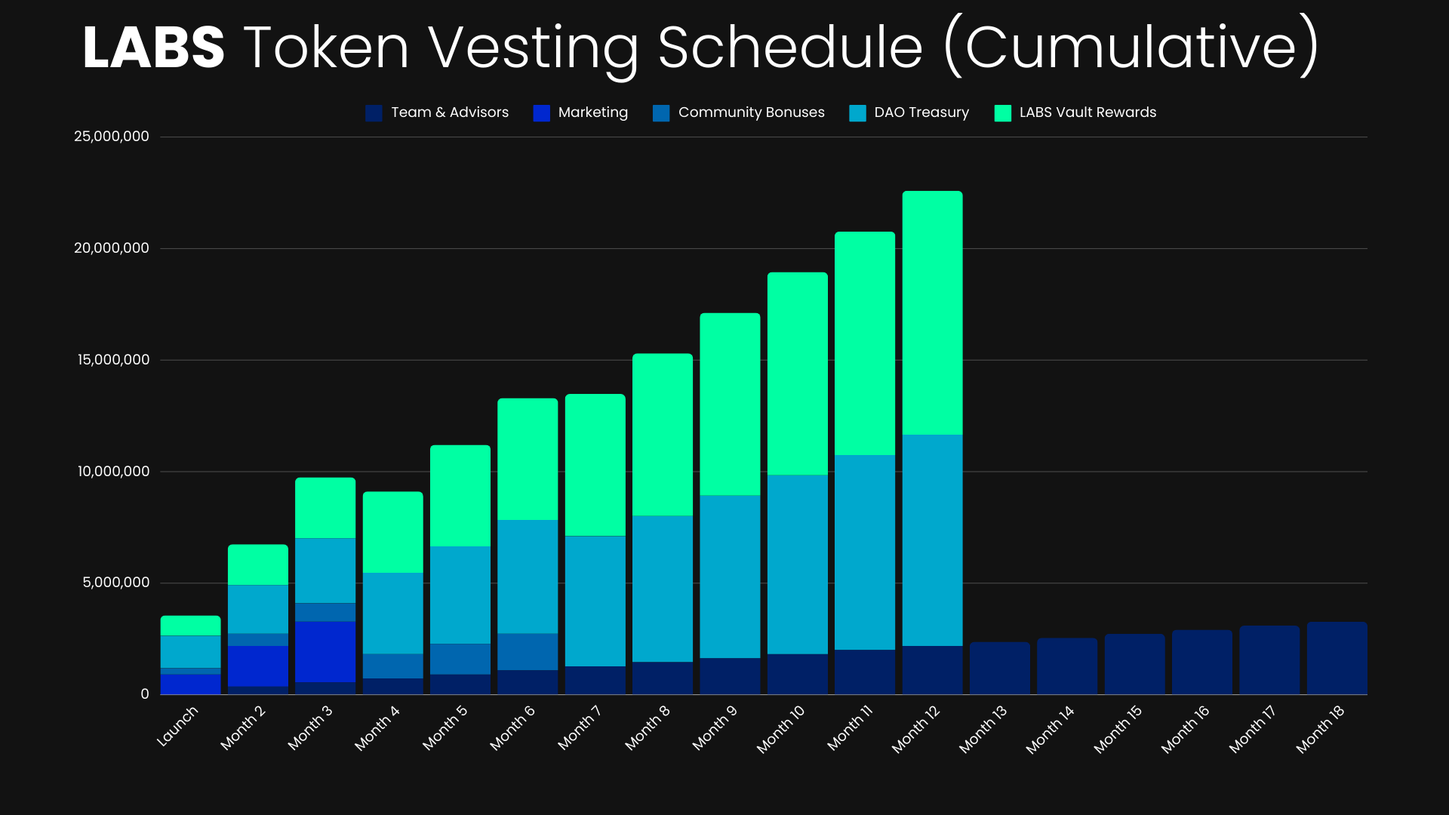
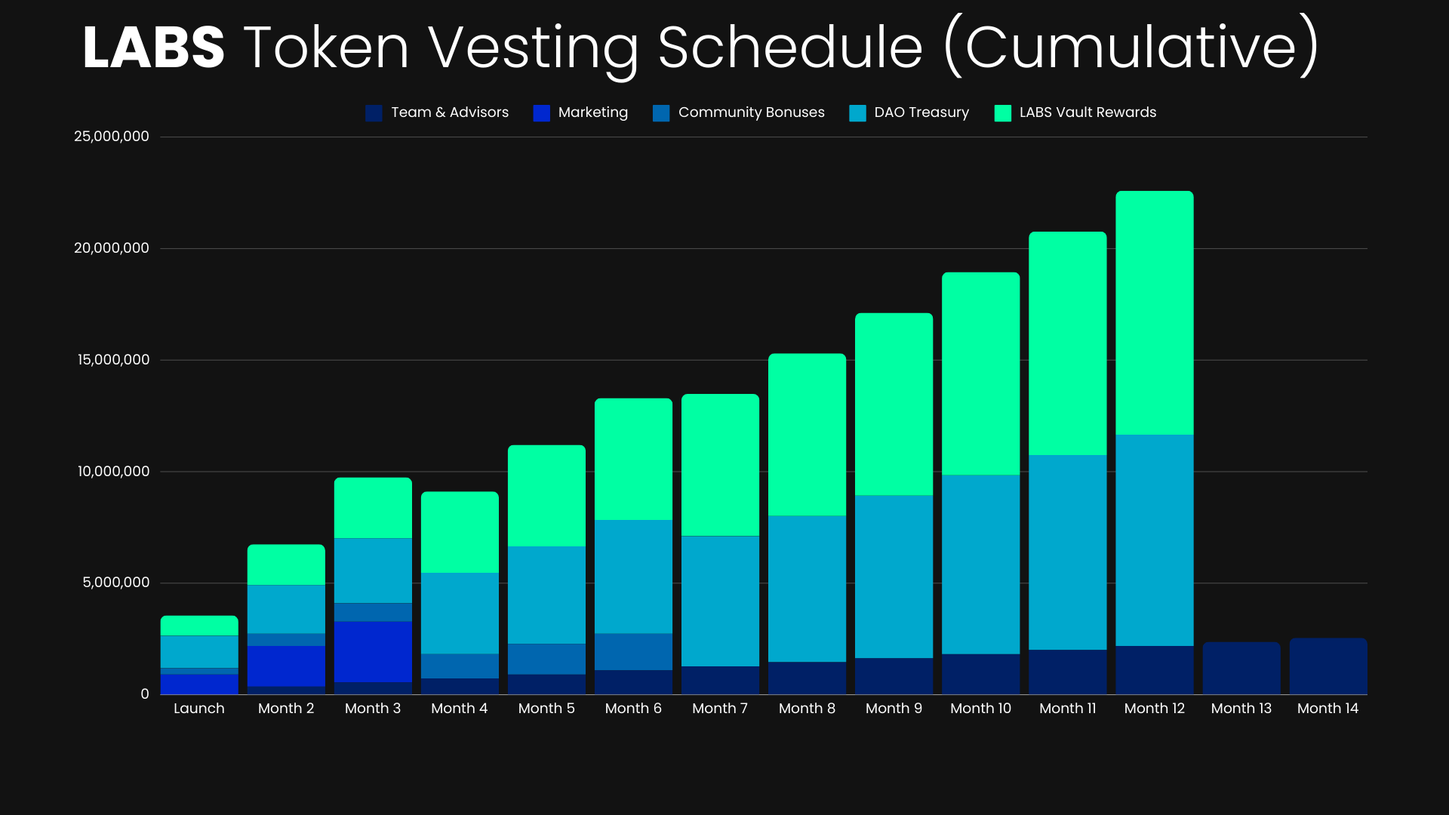
v0.1.1-a

Changed region(s): [[0.125, 0.2139, 0.9688, 0.9167], [0.75, 0.8861, 0.7812, 0.9167], [0.0938, 0.8861, 0.125, 0.9167]]

diff --git a/docs/.vitepress/dist/index.html b/docs/.vitepress/dist/index.html
@@ -6,19 +6,19 @@
     <title>Epicentral Labs</title>
     <meta name="description" content="Accelerate Project Incentives">
     <meta name="generator" content="VitePress v1.2.3">
-    <link rel="preload stylesheet" href="/assets/style.DgaH4lqg.css" as="style">
+    <link rel="preload stylesheet" href="/assets/style.BakIDI2z.css" as="style">
     
-    <script type="module" src="/assets/app.BaJRWoTe.js"></script>
+    <script type="module" src="/assets/app.DK_gGPpi.js"></script>
     <link rel="preload" href="/assets/inter-roman-latin.Di8DUHzh.woff2" as="font" type="font/woff2" crossorigin="">
-    <link rel="modulepreload" href="/assets/chunks/framework.x1LWUZpO.js">
-    <link rel="modulepreload" href="/assets/chunks/theme.AdrQEDLV.js">
-    <link rel="modulepreload" href="/assets/index.md.DtxrTbIZ.lean.js">
+    <link rel="modulepreload" href="/assets/chunks/framework.Dea1KWLi.js">
+    <link rel="modulepreload" href="/assets/chunks/theme.By3wyaKg.js">
+    <link rel="modulepreload" href="/assets/index.md.DTVQpEPl.lean.js">
     <script id="check-dark-mode">(()=>{const e=localStorage.getItem("vitepress-theme-appearance")||"auto",a=window.matchMedia("(prefers-color-scheme: dark)").matches;(!e||e==="auto"?a:e==="dark")&&document.documentElement.classList.add("dark")})();</script>
     <script id="check-mac-os">document.documentElement.classList.toggle("mac",/Mac|iPhone|iPod|iPad/i.test(navigator.platform));</script>
   </head>
   <body>
-    <div id="app"><div class="Layout" data-v-a9a9e638><!--[--><!--]--><!--[--><span tabindex="-1" data-v-c3508ec8></span><a href="#VPContent" class="VPSkipLink visually-hidden" data-v-c3508ec8> Skip to content </a><!--]--><!----><header class="VPNav" data-v-a9a9e638 data-v-f1e365da><div class="VPNavBar home top" data-v-f1e365da data-v-40788ea0><div class="wrapper" data-v-40788ea0><div class="container" data-v-40788ea0><div class="title" data-v-40788ea0><div class="VPNavBarTitle" data-v-40788ea0 data-v-28a961f9><a class="title" href="/" data-v-28a961f9><!--[--><!--]--><!----><span data-v-28a961f9>Epicentral Labs</span><!--[--><!--]--></a></div></div><div class="content" data-v-40788ea0><div class="content-body" data-v-40788ea0><!--[--><!--]--><div class="VPNavBarSearch search" data-v-40788ea0><!----></div><nav aria-labelledby="main-nav-aria-label" class="VPNavBarMenu menu" data-v-40788ea0 data-v-492ea56d><span id="main-nav-aria-label" class="visually-hidden" data-v-492ea56d>Main Navigation</span><!--[--><!--[--><a class="VPLink link VPNavBarMenuLink active" href="/" tabindex="0" data-v-492ea56d data-v-ed5ac1f6><!--[--><span data-v-ed5ac1f6>Home</span><!--]--></a><!--]--><!--[--><div class="VPFlyout VPNavBarMenuGroup" data-v-492ea56d data-v-e5380155><button type="button" class="button" aria-haspopup="true" aria-expanded="false" data-v-e5380155><span class="text" data-v-e5380155><!----><span data-v-e5380155>v0.1.0</span><span class="vpi-chevron-down text-icon" data-v-e5380155></span></span></button><div class="menu" data-v-e5380155><div class="VPMenu" data-v-e5380155 data-v-97491713><div class="items" data-v-97491713><!--[--><!--[--><div class="VPMenuLink" data-v-97491713 data-v-8b74d055><a class="VPLink link" href="/lab-updates/docs-changelog.html" data-v-8b74d055><!--[-->Docs Changlogs<!--]--></a></div><!--]--><!--]--></div><!--[--><!--]--></div></div></div><!--]--><!--]--></nav><!----><div class="VPNavBarAppearance appearance" data-v-40788ea0 data-v-ead91a81><button class="VPSwitch VPSwitchAppearance" type="button" role="switch" title="Switch to dark theme" aria-checked="false" data-v-ead91a81 data-v-b79b56d4 data-v-4a1c76db><span class="check" data-v-4a1c76db><span class="icon" data-v-4a1c76db><!--[--><span class="vpi-sun sun" data-v-b79b56d4></span><span class="vpi-moon moon" data-v-b79b56d4></span><!--]--></span></span></button></div><div class="VPSocialLinks VPNavBarSocialLinks social-links" data-v-40788ea0 data-v-164c457f data-v-ee7a9424><!--[--><a class="VPSocialLink no-icon" href="https://x.com/VaultiFi" aria-label="twitter" target="_blank" rel="noopener" data-v-ee7a9424 data-v-717b8b75><span class="vpi-social-twitter" /></a><a class="VPSocialLink no-icon" href="https://github.com/vuejs/vitepress" aria-label="github" target="_blank" rel="noopener" data-v-ee7a9424 data-v-717b8b75><span class="vpi-social-github" /></a><!--]--></div><div class="VPFlyout VPNavBarExtra extra" data-v-40788ea0 data-v-9b536d0b data-v-e5380155><button type="button" class="button" aria-haspopup="true" aria-expanded="false" aria-label="extra navigation" data-v-e5380155><span class="vpi-more-horizontal icon" data-v-e5380155></span></button><div class="menu" data-v-e5380155><div class="VPMenu" data-v-e5380155 data-v-97491713><!----><!--[--><!--[--><!----><div class="group" data-v-9b536d0b><div class="item appearance" data-v-9b536d0b><p class="label" data-v-9b536d0b>Appearance</p><div class="appearance-action" data-v-9b536d0b><button class="VPSwitch VPSwitchAppearance" type="button" role="switch" title="Switch to dark theme" aria-checked="false" data-v-9b536d0b data-v-b79b56d4 data-v-4a1c76db><span class="check" data-v-4a1c76db><span class="icon" data-v-4a1c76db><!--[--><span class="vpi-sun sun" data-v-b79b56d4></span><span class="vpi-moon moon" data-v-b79b56d4></span><!--]--></span></span></button></div></div></div><div class="group" data-v-9b536d0b><div class="item social-links" data-v-9b536d0b><div class="VPSocialLinks social-links-list" data-v-9b536d0b data-v-ee7a9424><!--[--><a class="VPSocialLink no-icon" href="https://x.com/VaultiFi" aria-label="twitter" target="_blank" rel="noopener" data-v-ee7a9424 data-v-717b8b75><span class="vpi-social-twitter" /></a><a class="VPSocialLink no-icon" href="https://github.com/vuejs/vitepress" aria-label="github" target="_blank" rel="noopener" data-v-ee7a9424 data-v-717b8b75><span class="vpi-social-github" /></a><!--]--></div></div></div><!--]--><!--]--></div></div></div><!--[--><!--]--><button type="button" class="VPNavBarHamburger hamburger" aria-label="mobile navigation" aria-expanded="false" aria-controls="VPNavScreen" data-v-40788ea0 data-v-5dea55bf><span class="container" data-v-5dea55bf><span class="top" data-v-5dea55bf></span><span class="middle" data-v-5dea55bf></span><span class="bottom" data-v-5dea55bf></span></span></button></div></div></div></div><div class="divider" data-v-40788ea0><div class="divider-line" data-v-40788ea0></div></div></div><!----></header><!----><!----><div class="VPContent is-home" id="VPContent" data-v-a9a9e638 data-v-91765379><div class="VPHome" data-v-91765379 data-v-cbb6ec48><!--[--><!--]--><div class="VPHero VPHomeHero" data-v-cbb6ec48 data-v-955009fc><div class="container" data-v-955009fc><div class="main" data-v-955009fc><!--[--><!--]--><!--[--><h1 class="name" data-v-955009fc><span class="clip" data-v-955009fc>Epicentral Labs</span></h1><p class="text" data-v-955009fc>Accelerate Project Incentives</p><p class="tagline" data-v-955009fc>Building interactive dApps that innovative DeFi solutions.</p><!--]--><!--[--><!--]--><div class="actions" data-v-955009fc><!--[--><div class="action" data-v-955009fc><a class="VPButton medium brand" href="/introduction/about-us.html" data-v-955009fc data-v-14206e74>Open Docs</a></div><div class="action" data-v-955009fc><a class="VPButton medium alt" href="https://x.com/EpicentralLabs" target="_blank" rel="noreferrer" data-v-955009fc data-v-14206e74>Follow us on X ==&gt;</a></div><!--]--></div><!--[--><!--]--></div><!----></div></div><!--[--><!--]--><!--[--><!--]--><!----><!--[--><!--]--><div class="vp-doc container" style="" data-v-cbb6ec48 data-v-7a48a447><!--[--><div style="position:relative;" data-v-cbb6ec48><div></div></div><!--]--></div></div></div><!----><!--[--><!--]--></div></div>
-    <script>window.__VP_HASH_MAP__=JSON.parse("{\"vault-program-docs_vault-fees.md\":\"AbgpQhRc\",\"index.md\":\"DtxrTbIZ\",\"vault-program-docs_introduction.md\":\"CAqOdDUd\",\"lab-updates_understanding-lab-updates.md\":\"Cvlc6vMN\",\"lab-updates_docs-changelog.md\":\"CVKFCaTV\",\"terminology.md\":\"ChU7a9Tw\",\"lab-updates_website-changelog.md\":\"D99hxknm\",\"introduction_about-us.md\":\"CQ6J9GPH\",\"introduction_labstoken.md\":\"AxrxcGDo\",\"vault-program-docs_vault-faqs.md\":\"9We8Ba0N\",\"lab-updates_vault-program-changelog.md\":\"nQJ1fbPR\",\"vault-program-docs_understanding-vaults.md\":\"CpjgqX4i\"}");window.__VP_SITE_DATA__=JSON.parse("{\"lang\":\"en-US\",\"dir\":\"ltr\",\"title\":\"Epicentral Labs\",\"description\":\"Accelerate Project Incentives\",\"base\":\"/\",\"head\":[],\"router\":{\"prefetchLinks\":true},\"appearance\":true,\"themeConfig\":{\"nav\":[{\"text\":\"Home\",\"link\":\"/\"},{\"text\":\"v0.1.0\",\"items\":[{\"text\":\"Docs Changlogs\",\"link\":\"/lab-updates/docs-changelog\"}]}],\"sidebar\":[{\"text\":\"Introduction\",\"items\":[{\"text\":\"About Us\",\"link\":\"/introduction/about-us\"},{\"text\":\"Terminology\",\"link\":\"/terminology\"},{\"text\":\"LABS Token\",\"link\":\"/introduction/labstoken\"}]},{\"text\":\"Vault-Programs\",\"items\":[{\"text\":\"Introduction\",\"link\":\"/vault-program-docs/introduction\"},{\"text\":\"Understanding Vaults\",\"link\":\"/vault-program-docs/understanding-vaults\"},{\"text\":\"Fees\",\"link\":\"/vault-program-docs/vault-fees\"},{\"text\":\"FAQs\",\"link\":\"/vault-program-docs/vault-faqs\"}]},{\"text\":\"Links\",\"items\":[{\"text\":\"Epicentral Labs Website\",\"link\":\"https://docs.epicentrallabs.com/\"},{\"text\":\"X (Twitter)\",\"link\":\"https://x.com/EpicentralLabs\"},{\"text\":\"GitHub\",\"link\":\"https://github.com/EpicentralLabs\"}]},{\"text\":\"Lab Updates\",\"items\":[{\"text\":\"Understanding Lab Updates\",\"link\":\"/lab-updates/understanding-lab-updates.md\"},{\"text\":\"Changelog [Docs]\",\"link\":\"/lab-updates/docs-changelog\"},{\"text\":\"Changelog [Website]\",\"link\":\"/lab-updates/website-changelog\"},{\"text\":\"Changelog [Vault-Programs]\",\"link\":\"/lab-updates/vault-program-changelog\"}]}],\"socialLinks\":[{\"icon\":\"twitter\",\"link\":\"https://x.com/VaultiFi\"},{\"icon\":\"github\",\"link\":\"https://github.com/vuejs/vitepress\"}]},\"locales\":{},\"scrollOffset\":134,\"cleanUrls\":false}");</script>
+    <div id="app"><div class="Layout" data-v-a9a9e638><!--[--><!--]--><!--[--><span tabindex="-1" data-v-c3508ec8></span><a href="#VPContent" class="VPSkipLink visually-hidden" data-v-c3508ec8> Skip to content </a><!--]--><!----><header class="VPNav" data-v-a9a9e638 data-v-f1e365da><div class="VPNavBar home top" data-v-f1e365da data-v-40788ea0><div class="wrapper" data-v-40788ea0><div class="container" data-v-40788ea0><div class="title" data-v-40788ea0><div class="VPNavBarTitle" data-v-40788ea0 data-v-28a961f9><a class="title" href="/" data-v-28a961f9><!--[--><!--]--><!----><span data-v-28a961f9>Epicentral Labs</span><!--[--><!--]--></a></div></div><div class="content" data-v-40788ea0><div class="content-body" data-v-40788ea0><!--[--><!--]--><div class="VPNavBarSearch search" data-v-40788ea0><!----></div><nav aria-labelledby="main-nav-aria-label" class="VPNavBarMenu menu" data-v-40788ea0 data-v-492ea56d><span id="main-nav-aria-label" class="visually-hidden" data-v-492ea56d>Main Navigation</span><!--[--><!--[--><a class="VPLink link VPNavBarMenuLink active" href="/" tabindex="0" data-v-492ea56d data-v-ed5ac1f6><!--[--><span data-v-ed5ac1f6>Home</span><!--]--></a><!--]--><!--[--><div class="VPFlyout VPNavBarMenuGroup" data-v-492ea56d data-v-e5380155><button type="button" class="button" aria-haspopup="true" aria-expanded="false" data-v-e5380155><span class="text" data-v-e5380155><!----><span data-v-e5380155>v0.1.0</span><span class="vpi-chevron-down text-icon" data-v-e5380155></span></span></button><div class="menu" data-v-e5380155><div class="VPMenu" data-v-e5380155 data-v-97491713><div class="items" data-v-97491713><!--[--><!--[--><div class="VPMenuLink" data-v-97491713 data-v-8b74d055><a class="VPLink link" href="/lab-updates/docs-changelog.html" data-v-8b74d055><!--[-->Docs Changlogs<!--]--></a></div><!--]--><!--]--></div><!--[--><!--]--></div></div></div><!--]--><!--]--></nav><!----><div class="VPNavBarAppearance appearance" data-v-40788ea0 data-v-ead91a81><button class="VPSwitch VPSwitchAppearance" type="button" role="switch" title="Switch to dark theme" aria-checked="false" data-v-ead91a81 data-v-b79b56d4 data-v-4a1c76db><span class="check" data-v-4a1c76db><span class="icon" data-v-4a1c76db><!--[--><span class="vpi-sun sun" data-v-b79b56d4></span><span class="vpi-moon moon" data-v-b79b56d4></span><!--]--></span></span></button></div><div class="VPSocialLinks VPNavBarSocialLinks social-links" data-v-40788ea0 data-v-164c457f data-v-ee7a9424><!--[--><a class="VPSocialLink no-icon" href="https://x.com/VaultiFi" aria-label="twitter" target="_blank" rel="noopener" data-v-ee7a9424 data-v-717b8b75><span class="vpi-social-twitter" /></a><a class="VPSocialLink no-icon" href="https://github.com/vuejs/vitepress" aria-label="github" target="_blank" rel="noopener" data-v-ee7a9424 data-v-717b8b75><span class="vpi-social-github" /></a><!--]--></div><div class="VPFlyout VPNavBarExtra extra" data-v-40788ea0 data-v-9b536d0b data-v-e5380155><button type="button" class="button" aria-haspopup="true" aria-expanded="false" aria-label="extra navigation" data-v-e5380155><span class="vpi-more-horizontal icon" data-v-e5380155></span></button><div class="menu" data-v-e5380155><div class="VPMenu" data-v-e5380155 data-v-97491713><!----><!--[--><!--[--><!----><div class="group" data-v-9b536d0b><div class="item appearance" data-v-9b536d0b><p class="label" data-v-9b536d0b>Appearance</p><div class="appearance-action" data-v-9b536d0b><button class="VPSwitch VPSwitchAppearance" type="button" role="switch" title="Switch to dark theme" aria-checked="false" data-v-9b536d0b data-v-b79b56d4 data-v-4a1c76db><span class="check" data-v-4a1c76db><span class="icon" data-v-4a1c76db><!--[--><span class="vpi-sun sun" data-v-b79b56d4></span><span class="vpi-moon moon" data-v-b79b56d4></span><!--]--></span></span></button></div></div></div><div class="group" data-v-9b536d0b><div class="item social-links" data-v-9b536d0b><div class="VPSocialLinks social-links-list" data-v-9b536d0b data-v-ee7a9424><!--[--><a class="VPSocialLink no-icon" href="https://x.com/VaultiFi" aria-label="twitter" target="_blank" rel="noopener" data-v-ee7a9424 data-v-717b8b75><span class="vpi-social-twitter" /></a><a class="VPSocialLink no-icon" href="https://github.com/vuejs/vitepress" aria-label="github" target="_blank" rel="noopener" data-v-ee7a9424 data-v-717b8b75><span class="vpi-social-github" /></a><!--]--></div></div></div><!--]--><!--]--></div></div></div><!--[--><!--]--><button type="button" class="VPNavBarHamburger hamburger" aria-label="mobile navigation" aria-expanded="false" aria-controls="VPNavScreen" data-v-40788ea0 data-v-5dea55bf><span class="container" data-v-5dea55bf><span class="top" data-v-5dea55bf></span><span class="middle" data-v-5dea55bf></span><span class="bottom" data-v-5dea55bf></span></span></button></div></div></div></div><div class="divider" data-v-40788ea0><div class="divider-line" data-v-40788ea0></div></div></div><!----></header><!----><!----><div class="VPContent is-home" id="VPContent" data-v-a9a9e638 data-v-91765379><div class="VPHome" data-v-91765379 data-v-cbb6ec48><!--[--><!--]--><div class="VPHero VPHomeHero" data-v-cbb6ec48 data-v-955009fc><div class="container" data-v-955009fc><div class="main" data-v-955009fc><!--[--><!--]--><!--[--><h1 class="name" data-v-955009fc><span class="clip" data-v-955009fc>Epicentral Labs</span></h1><p class="text" data-v-955009fc>Accelerate Incentives & Participation</p><p class="tagline" data-v-955009fc>Creating innovative DeFi solutions...</p><!--]--><!--[--><!--]--><div class="actions" data-v-955009fc><!--[--><div class="action" data-v-955009fc><a class="VPButton medium brand" href="/introduction/about-us.html" data-v-955009fc data-v-14206e74>Open Docs</a></div><div class="action" data-v-955009fc><a class="VPButton medium alt" href="https://x.com/EpicentralLabs" target="_blank" rel="noreferrer" data-v-955009fc data-v-14206e74>Follow us on X! ==&gt;</a></div><div class="action" data-v-955009fc><a class="VPButton medium alt" href="https://discord.gg/5asAuY2sR8" target="_blank" rel="noreferrer" data-v-955009fc data-v-14206e74>Join our Discord! ==&gt;</a></div><!--]--></div><!--[--><!--]--></div><!----></div></div><!--[--><!--]--><!--[--><!--]--><!----><!--[--><!--]--><div class="vp-doc container" style="" data-v-cbb6ec48 data-v-7a48a447><!--[--><div style="position:relative;" data-v-cbb6ec48><div></div></div><!--]--></div></div></div><!----><!--[--><!--]--></div></div>
+    <script>window.__VP_HASH_MAP__=JSON.parse("{\"introduction_about-us.md\":\"Cl1IbUfc\",\"lab-updates_website-changelog.md\":\"D2VUCg5d\",\"vault-program-docs_understanding-vaults.md\":\"Cq8DON_w\",\"lab-updates_vault-program-changelog.md\":\"DtB1oVf1\",\"introduction_labstoken.md\":\"Do8UpBuv\",\"lab-updates_understanding-lab-updates.md\":\"BG6WV6_I\",\"vault-program-docs_vault-fees.md\":\"DNxkI4MP\",\"index.md\":\"DTVQpEPl\",\"vault-program-docs_introduction.md\":\"DX2xRSi9\",\"terminology.md\":\"qlGqB0mD\",\"vault-program-docs_vault-faqs.md\":\"D_jOtIDF\"}");window.__VP_SITE_DATA__=JSON.parse("{\"lang\":\"en-US\",\"dir\":\"ltr\",\"title\":\"Epicentral Labs\",\"description\":\"Accelerate Project Incentives\",\"base\":\"/\",\"head\":[],\"router\":{\"prefetchLinks\":true},\"appearance\":true,\"themeConfig\":{\"nav\":[{\"text\":\"Home\",\"link\":\"/\"},{\"text\":\"v0.1.0\",\"items\":[{\"text\":\"Docs Changlogs\",\"link\":\"/lab-updates/docs-changelog\"}]}],\"sidebar\":[{\"text\":\"Introduction\",\"items\":[{\"text\":\"About Us\",\"link\":\"/introduction/about-us\"},{\"text\":\"Terminology\",\"link\":\"/terminology\"},{\"text\":\"LABS Token\",\"link\":\"/introduction/labstoken\"}]},{\"text\":\"Vault-Programs\",\"items\":[{\"text\":\"Introduction\",\"link\":\"/vault-program-docs/introduction\"},{\"text\":\"Vaults-Explained\",\"link\":\"/vault-program-docs/understanding-vaults\"},{\"text\":\"Fees\",\"link\":\"/vault-program-docs/vault-fees\"},{\"text\":\"FAQs\",\"link\":\"/vault-program-docs/vault-faqs\"}]},{\"text\":\"Links\",\"items\":[{\"text\":\"Epicentral Labs Website\",\"link\":\"https://docs.epicentrallabs.com/\"},{\"text\":\"X (Twitter)\",\"link\":\"https://x.com/EpicentralLabs\"},{\"text\":\"Discord\",\"link\":\"https://discord.gg/5asAuY2sR8\"},{\"text\":\"GitHub\",\"link\":\"https://github.com/EpicentralLabs\"}]},{\"text\":\"Lab Updates\",\"items\":[{\"text\":\"Understanding Lab Updates\",\"link\":\"/lab-updates/understanding-lab-updates.md\"},{\"text\":\"Changelog [Website]\",\"link\":\"/lab-updates/website-changelog\"},{\"text\":\"Changelog [Vault-Programs]\",\"link\":\"/lab-updates/vault-program-changelog\"}]}],\"socialLinks\":[{\"icon\":\"twitter\",\"link\":\"https://x.com/VaultiFi\"},{\"icon\":\"github\",\"link\":\"https://github.com/vuejs/vitepress\"}]},\"locales\":{},\"scrollOffset\":134,\"cleanUrls\":false}");</script>
     
   </body>
 </html>

diff --git a/docs/.vitepress/dist/404.html b/docs/.vitepress/dist/404.html
@@ -6,16 +6,16 @@
     <title>404 | Epicentral Labs</title>
     <meta name="description" content="Not Found">
     <meta name="generator" content="VitePress v1.2.3">
-    <link rel="preload stylesheet" href="/assets/style.DgaH4lqg.css" as="style">
+    <link rel="preload stylesheet" href="/assets/style.BakIDI2z.css" as="style">
     
-    <script type="module" src="/assets/app.BaJRWoTe.js"></script>
+    <script type="module" src="/assets/app.DK_gGPpi.js"></script>
     <link rel="preload" href="/assets/inter-roman-latin.Di8DUHzh.woff2" as="font" type="font/woff2" crossorigin="">
     <script id="check-dark-mode">(()=>{const e=localStorage.getItem("vitepress-theme-appearance")||"auto",a=window.matchMedia("(prefers-color-scheme: dark)").matches;(!e||e==="auto"?a:e==="dark")&&document.documentElement.classList.add("dark")})();</script>
     <script id="check-mac-os">document.documentElement.classList.toggle("mac",/Mac|iPhone|iPod|iPad/i.test(navigator.platform));</script>
   </head>
   <body>
     <div id="app"></div>
-    <script>window.__VP_HASH_MAP__=JSON.parse("{\"vault-program-docs_vault-fees.md\":\"AbgpQhRc\",\"index.md\":\"DtxrTbIZ\",\"vault-program-docs_introduction.md\":\"CAqOdDUd\",\"lab-updates_understanding-lab-updates.md\":\"Cvlc6vMN\",\"lab-updates_docs-changelog.md\":\"CVKFCaTV\",\"terminology.md\":\"ChU7a9Tw\",\"lab-updates_website-changelog.md\":\"D99hxknm\",\"introduction_about-us.md\":\"CQ6J9GPH\",\"introduction_labstoken.md\":\"AxrxcGDo\",\"vault-program-docs_vault-faqs.md\":\"9We8Ba0N\",\"lab-updates_vault-program-changelog.md\":\"nQJ1fbPR\",\"vault-program-docs_understanding-vaults.md\":\"CpjgqX4i\"}");window.__VP_SITE_DATA__=JSON.parse("{\"lang\":\"en-US\",\"dir\":\"ltr\",\"title\":\"Epicentral Labs\",\"description\":\"Accelerate Project Incentives\",\"base\":\"/\",\"head\":[],\"router\":{\"prefetchLinks\":true},\"appearance\":true,\"themeConfig\":{\"nav\":[{\"text\":\"Home\",\"link\":\"/\"},{\"text\":\"v0.1.0\",\"items\":[{\"text\":\"Docs Changlogs\",\"link\":\"/lab-updates/docs-changelog\"}]}],\"sidebar\":[{\"text\":\"Introduction\",\"items\":[{\"text\":\"About Us\",\"link\":\"/introduction/about-us\"},{\"text\":\"Terminology\",\"link\":\"/terminology\"},{\"text\":\"LABS Token\",\"link\":\"/introduction/labstoken\"}]},{\"text\":\"Vault-Programs\",\"items\":[{\"text\":\"Introduction\",\"link\":\"/vault-program-docs/introduction\"},{\"text\":\"Understanding Vaults\",\"link\":\"/vault-program-docs/understanding-vaults\"},{\"text\":\"Fees\",\"link\":\"/vault-program-docs/vault-fees\"},{\"text\":\"FAQs\",\"link\":\"/vault-program-docs/vault-faqs\"}]},{\"text\":\"Links\",\"items\":[{\"text\":\"Epicentral Labs Website\",\"link\":\"https://docs.epicentrallabs.com/\"},{\"text\":\"X (Twitter)\",\"link\":\"https://x.com/EpicentralLabs\"},{\"text\":\"GitHub\",\"link\":\"https://github.com/EpicentralLabs\"}]},{\"text\":\"Lab Updates\",\"items\":[{\"text\":\"Understanding Lab Updates\",\"link\":\"/lab-updates/understanding-lab-updates.md\"},{\"text\":\"Changelog [Docs]\",\"link\":\"/lab-updates/docs-changelog\"},{\"text\":\"Changelog [Website]\",\"link\":\"/lab-updates/website-changelog\"},{\"text\":\"Changelog [Vault-Programs]\",\"link\":\"/lab-updates/vault-program-changelog\"}]}],\"socialLinks\":[{\"icon\":\"twitter\",\"link\":\"https://x.com/VaultiFi\"},{\"icon\":\"github\",\"link\":\"https://github.com/vuejs/vitepress\"}]},\"locales\":{},\"scrollOffset\":134,\"cleanUrls\":false}");</script>
+    <script>window.__VP_HASH_MAP__=JSON.parse("{\"introduction_about-us.md\":\"Cl1IbUfc\",\"lab-updates_website-changelog.md\":\"D2VUCg5d\",\"vault-program-docs_understanding-vaults.md\":\"Cq8DON_w\",\"lab-updates_vault-program-changelog.md\":\"DtB1oVf1\",\"introduction_labstoken.md\":\"Do8UpBuv\",\"lab-updates_understanding-lab-updates.md\":\"BG6WV6_I\",\"vault-program-docs_vault-fees.md\":\"DNxkI4MP\",\"index.md\":\"DTVQpEPl\",\"vault-program-docs_introduction.md\":\"DX2xRSi9\",\"terminology.md\":\"qlGqB0mD\",\"vault-program-docs_vault-faqs.md\":\"D_jOtIDF\"}");window.__VP_SITE_DATA__=JSON.parse("{\"lang\":\"en-US\",\"dir\":\"ltr\",\"title\":\"Epicentral Labs\",\"description\":\"Accelerate Project Incentives\",\"base\":\"/\",\"head\":[],\"router\":{\"prefetchLinks\":true},\"appearance\":true,\"themeConfig\":{\"nav\":[{\"text\":\"Home\",\"link\":\"/\"},{\"text\":\"v0.1.0\",\"items\":[{\"text\":\"Docs Changlogs\",\"link\":\"/lab-updates/docs-changelog\"}]}],\"sidebar\":[{\"text\":\"Introduction\",\"items\":[{\"text\":\"About Us\",\"link\":\"/introduction/about-us\"},{\"text\":\"Terminology\",\"link\":\"/terminology\"},{\"text\":\"LABS Token\",\"link\":\"/introduction/labstoken\"}]},{\"text\":\"Vault-Programs\",\"items\":[{\"text\":\"Introduction\",\"link\":\"/vault-program-docs/introduction\"},{\"text\":\"Vaults-Explained\",\"link\":\"/vault-program-docs/understanding-vaults\"},{\"text\":\"Fees\",\"link\":\"/vault-program-docs/vault-fees\"},{\"text\":\"FAQs\",\"link\":\"/vault-program-docs/vault-faqs\"}]},{\"text\":\"Links\",\"items\":[{\"text\":\"Epicentral Labs Website\",\"link\":\"https://docs.epicentrallabs.com/\"},{\"text\":\"X (Twitter)\",\"link\":\"https://x.com/EpicentralLabs\"},{\"text\":\"Discord\",\"link\":\"https://discord.gg/5asAuY2sR8\"},{\"text\":\"GitHub\",\"link\":\"https://github.com/EpicentralLabs\"}]},{\"text\":\"Lab Updates\",\"items\":[{\"text\":\"Understanding Lab Updates\",\"link\":\"/lab-updates/understanding-lab-updates.md\"},{\"text\":\"Changelog [Website]\",\"link\":\"/lab-updates/website-changelog\"},{\"text\":\"Changelog [Vault-Programs]\",\"link\":\"/lab-updates/vault-program-changelog\"}]}],\"socialLinks\":[{\"icon\":\"twitter\",\"link\":\"https://x.com/VaultiFi\"},{\"icon\":\"github\",\"link\":\"https://github.com/vuejs/vitepress\"}]},\"locales\":{},\"scrollOffset\":134,\"cleanUrls\":false}");</script>
     
   </body>
 </html>

diff --git a/docs/.vitepress/theme/style.css b/docs/.vitepress/theme/style.css
@@ -76,11 +76,11 @@
 
 :root {
   --vp-button-brand-border: transparent;
-  --vp-button-brand-text: var(--vp-c-white);
-  --vp-button-brand-bg: var(--vp-c-brand-3);
+  --vp-button-brand-text: #121212;
+  --vp-button-brand-bg: #00FFA3;
   --vp-button-brand-hover-border: transparent;
   --vp-button-brand-hover-text: var(--vp-c-white);
-  --vp-button-brand-hover-bg: var(--vp-c-brand-2);
+  --vp-button-brand-hover-bg: #00D4C1;
   --vp-button-brand-active-border: transparent;
   --vp-button-brand-active-text: var(--vp-c-white);
   --vp-button-brand-active-bg: var(--vp-c-brand-1);
@@ -94,14 +94,14 @@
   --vp-home-hero-name-color: transparent;
   --vp-home-hero-name-background: -webkit-linear-gradient(
     120deg,
-    #bd34fe 30%,
-    #41d1ff
+    #00FFA3 30%,
+    #00A8CD
   );
 
   --vp-home-hero-image-background-image: linear-gradient(
     -45deg,
-    #bd34fe 50%,
-    #47caff 50%
+    #00FFA3 50%,
+    #00A8CD 50%
   );
   --vp-home-hero-image-filter: blur(44px);
 }
@@ -136,4 +136,3 @@
 .DocSearch {
   --docsearch-primary-color: var(--vp-c-brand-1) !important;
 }
-

diff --git a/docs/src/lab-updates/website-changelog.md b/docs/src/lab-updates/website-changelog.md
@@ -1,9 +1,57 @@
 # Website Changelog
 
-All changes made within our official website will be posted here for updates. Most recent change will be at the top of the page. Because we host and build our website through another provider, there are no GitHub/external links to prove commits.
+Most recent version will be presented at the top of the page. All changes made to the website/documentation pages is posted here. With all/any new releases made on GitHub, the description of what has changed is listed here. 
 
-There are **4** primary categories that may appear in specific versions: **Init, Remove, Bug Fix(es), and Features**.
+There are **4** primary categories that may appear in specific versions: **Added, Remove(d), Bug Fix(es), and Changes**. *(Listed in that order).*
 
-## v0.0.1-beta (6/17/2024)
-### Init
-* Website development and revamp has initiated.
+## v0.1.1 (7/13/2024)
+### Added:
+* LABS Token page created. [6aadf62](https://github.com/TheLazySol/lab-docs/commit/6aadf62ee3b4849eb7ad5b3c1c97187d430b03e1)
+* LABS Tokenomics explained and Vesting Schedule is implemented into the page. [d13400e](https://github.com/TheLazySol/lab-docs/commit/d13400e67da638ddef61e6e75a30bbb28a8f5aa7)
+* Token Accumulation & Circulation Graphs added.
+* Vesting Schedule & Vesting Schedule (Cumulative) Graphs added.
+* LABS Vesting Table Chart Added.
+* Added Discord Link under "Links" Category on vertical navbar.
+* Added banners to pages/categories.
+* Added 'Join our Discord' Button on Home/Hero Page.
+### Removed:
+* Website Changelog page removed in the vertical nav bar.
+* Removed item list on "Vault-Explained" page.
+### Changes:
+* Hero Page title colors updated.
+* Renamed Docs Changelogs to "Website Changelog" and its categories. 
+* Updated 'About Us' Section.
+* Added Solana Protocol Chart to 'Vault-Programs' introduction section.
+* Hyperlinks to terminology page added throughout the site.
+* Replaced 'Understanding Vaults' to 'Vaults-Explained' 
+
+
+
+## v0.1.0 (7/1/2024)
+### Added:
+* Images are fixed and updated. [de4c6ac](https://github.com/TheLazySol/lab-docs/commit/de4c6ac7cb05d886c352e8880277566c9e433916)
+* Official Release of the documentation site! 
+
+## v0.0.3-beta (6/23/2024)
+### Added:
+* Vault-Programs [Introduction](/vault-program-docs/introduction) Page completed. [da7de12](https://github.com/TheLazySol/lab-docs/commit/da7de12ca3b420b6aaaba60c361469441cbd752d)
+* Vault-Programs [Understanding Vaults](/vault-program-docs/understanding-vaults) Page completed. [da7de12](https://github.com/TheLazySol/lab-docs/commit/da7de12ca3b420b6aaaba60c361469441cbd752d)
+* Vault-Programs [Fees](/vault-program-docs/vault-fees) Page completed. [da7de12](https://github.com/TheLazySol/lab-docs/commit/da7de12ca3b420b6aaaba60c361469441cbd752d)
+* Vault-Programs [FAQs](/vault-program-docs/vault-faqs) Page created. [da7de12](https://github.com/TheLazySol/lab-docs/commit/da7de12ca3b420b6aaaba60c361469441cbd752d)
+* Created & completed [Terminology](/terminology) Page. [da7de12](https://github.com/TheLazySol/lab-docs/commit/da7de12ca3b420b6aaaba60c361469441cbd752d)
+
+## v0.0.2-beta (6/21/2024)
+### Added:
+* CleanUrls added via the vercel.json config. [5818130](https://github.com/TheLazySol/lab-docs/commit/58181306643437d5936fa3b74966730157cce1cc).
+* Connected appropriate domain(s) to vercel deployment.
+* Added new section [Understanding Lab Updates](/lab-updates/understanding-lab-updates). [a59962d](https://github.com/TheLazySol/lab-docs/commit/a59962d02f7ad3eaf364ef91c25ecaf3a1d17378).
+* Reconfigured the Vault-Programs section and replaced **About** with **Introduction**. [a59962d](https://github.com/TheLazySol/lab-docs/commit/a59962d02f7ad3eaf364ef91c25ecaf3a1d17378).
+
+### Bug Fix:
+* [About Us](/introduction/about-us) page hyperlinks are fixed. [5818130](https://github.com/TheLazySol/lab-docs/commit/58181306643437d5936fa3b74966730157cce1cc).
+* Minor grammatical and formatting fix. [8001b34](https://github.com/TheLazySol/lab-docs/commit/8001b3478cca94a3686ecd53d39fff5cc18ef231).
+
+## v0.0.1-beta (6/20/2024)
+### Added:
+* Initialized GitHub Repo for the Docs. [761481e](https://github.com/TheLazySol/lab-docs/commit/761481e22242cff774b8b55e64a69c387075bb88).
+* Created basic web pages regarding projects and changelogs. [96d5f26](https://github.com/TheLazySol/lab-docs/commit/96d5f26a03b7301709278fc1d9abea74264da881).

diff --git a/docs/src/vault-program-docs/introduction.md b/docs/src/vault-program-docs/introduction.md
@@ -1,16 +1,20 @@
-# Introduction 
+<img src="/Vault-Programs-Banner.png">
 
-Vault-Programs are an interactive **decentralized application (dApp)** built on Solana allowing projects to expand with customizable interest-bearing programs. These programs, known as Vaults, allow community developers and DAOs to incentivize investors, traders, and DeFi fanatics to earn seamlessly by essentially staking their tokens in return for more.
+## Introduction 
 
-Vault-Programs provide an environment for other projects to create customizable "savings accounts" on Solana for their native token projects (spl-token projects).
+Vault-Programs are an interactive [decentralized application (dApp)](/terminology#decentralized-application-dapp) built on Solana allowing projects to expand with customizable interest-bearing programs. These programs, known as [Vaults](/terminology#vault), allow community developers and [DAOs](/terminology#decentralized-autonomous-organization-dao) to incentivize investors, traders, and [DeFi](/terminology#decentralized-finance-defi) fanatics to earn seamlessly by essentially [staking](/terminology#staking) their tokens in return for more.
 
-With Solana communities on the rise, especially with the recent memecoin surge, Epicentral Labs caters to communities that can thrive from a new benefit in providing a spl-token staking environment.
+Vault-Programs provide an environment for other projects to create customizable "savings accounts" on Solana for their native token projects ([spl-token projects](/terminology#spl-token)).
+
+With Solana communities on the rise, especially with the recent memecoin surge, ***Epicentral Labs*** caters to communities that can thrive from a new benefit in providing a spl-token staking environment.
 
 
 ## Where do Vault-Programs Exist on Solana?
 
-Vault-Programs stands out as a key addition to the Solana Ecosystem, providing a platform for projects to launch customizable interest-bearing programs on Solana. This tool caters specifically to the growing number of Solana communities, from memecoins to DeFi and Gaming/NFT as well as other initiatives that are yet to come. **Vaults** allows them to offer unique reward opportunities for their community and creates a better utilization of their project tokens. 
+<img src="/SolanaEco-June30-2024.jpg">
+
+Vault-Programs stands out as a key addition to the Solana Ecosystem, providing a platform for projects to launch customizable interest-bearing programs on Solana. This tool caters specifically to the growing number of Solana communities, from memecoins to DeFi and Gaming/NFT as well as other initiatives that are yet to come. [Vaults](/terminology#vault) allows them to offer unique reward opportunities for their community and creates a better utilization of their project tokens. 
 
 By facilitating an environment where investors can earn without directly providing to the liquidity pool, Vaults enhance the attractiveness and utility of the ecosystem.
 
-It offers projects a way to incentivize participation and investment, supporting their growth and the broader development of the Solana space. This streamlined approach ensures that Solana remains at the forefront of blockchain innovation, adapting to the diverse needs of its expanding community with our **Vaults**
+It offers projects a way to incentivize participation and investment, supporting their growth and the broader development of the Solana space. This streamlined approach ensures that Solana remains at the forefront of blockchain innovation, adapting to the diverse needs of its expanding community with our **Vaults**.

diff --git a/docs/src/introduction/labstoken.md b/docs/src/introduction/labstoken.md
@@ -1,6 +1,8 @@
 # LABS Token
+###
+<img src="/LABS-Token-Banner.png" alt="LABS Token Banner">
 
-## About
+## About LABS
 
 ***LABS*** is a governance and utility token that is used for decision making, project focuses, voting, and much more. ***LABS*** will be integrated with various protocols such as:
 * [Realms](https://realms.today/) - a Governance and Treasury protocol for project organizations.
@@ -46,6 +48,20 @@ For all of our visual learners out there, below is a stacked bar chart showcasin
 
 <img src="/Linear Vesting.png" alt="LABS Vesting Schedule">
 
+###
+
+<img src="/Cumulative Vesting.png" alt="LABS Vesting Schedule(Cum.)">
+
+## LABS Vesting Table Chart
+
+| **Allocation:** | **Grant Amount** | **Quanity Released / Month:** | **Vesting Period:** | **Rate:** | **Amount Already Released:** |
+|:-------:|:-------:|:-------:|:-------:|:-------:|:-------:|
+| LABS-Vault Reward Pool: | **0** | **910,877** | 12 Months | Once per month | **0** |
+| DAO Treasury: | **1,457,402** | **728,701** | 11 Months | Once per month | **0** |
+| Team & Advisors: | **364,356*** | **182,175** | 16 Months | Once per month | **0** |
+| Marketing: | **910,877** | **910,877** | 2 Months | Once per month | **0** |
+| Community Bonuses: | **0** | **273,263** | 6 Months | Twice per month | **0** |
+
 
 
 Vesting Schedules are important for projects and start up businesses that wish to succeed long term. It is critical that every detail in the tokenomics of LABS is measured precisely so that there aren't any future dilemmas in how to go about releasing tokens. 
@@ -54,4 +70,22 @@ Token Vesting is essential in order to reduce large inflationary outcomes and pr
 
 <img src="/ProsnConsVesting.png">
 
-*You can read more about ["What is Token Vesting Security?"](https://blog.streamflow.finance/what-is-token-vesting-security/) by [Streamflow](https://streamflow.finance/)*
+*You can read more about ["What is Token Vesting Security?"](https://blog.streamflow.finance/what-is-token-vesting-security/) by [Streamflow](https://streamflow.finance/)*, they go into great detail covering more specifics on the pros and cons of token vesting versus not.
+
+## Total Token Accumulation
+Self-explanitory. However, it is important to note that over the next 13 months, the circulating supply will increase and will eventually cap at the Total Supply amount. 
+
+Understanding how this affects price is important. If you don't understand basic economics such as **supply and demand**, we recommend you [read more about it here](https://www.investopedia.com/ask/answers/033115/how-does-law-supply-and-demand-affect-prices.asp#:~:text=The%20law%20of%20supply%20and%20demand%20centers%20on%20prices%20that,while%20demand%20increases%2C%20prices%20rise.).
+
+<img src="/LABS-Total-Accumulation.png">
+
+## Token Circulating Supply Schedule
+Circulating Supply is the amount of tokens that will be "out there" with accessability by the public. 
+
+<img src="/LABS-Released-Per-Month.png">
+
+#
+
+::: tip
+**If you have any questions, please join our [**Discord**](https://discord.gg/5asAuY2sR8) or follow us on [**X**](https://x.com/EpicentralLabs)**.
+:::

diff --git a/docs/src/introduction/about-us.md b/docs/src/introduction/about-us.md
@@ -1,10 +1,21 @@
-# About Us
+<img src="/About-Us-Banner.png">
 
-Epicentral Labs is a small team based in the United States that focuses on creating innovative solutions for OnChain problems on [Solana](https://solana.com/).
+##
+***Epicentral Labs*** is a small team based in the United States that focuses on creating innovative solutions for OnChain problems including but not limited to integrating DeFi, Tokenization, and Real World Applications with [Solana](https://solana.com/). 
 
 ## Our Focus
 
+The goal is to introduce democratization into new/existing ideas, products, services and expanding on them. However, it’s important not to think too largely. It’s just as important, to focus on smaller problems/ideas before tackling the big ones.
+
+We want to connect, collaborate, educate, and grow the Solana Community as well as our everyday non-crypto-oriented folks into understanding of what more can be achieved for investors, consumers and developers.
+
 Currently, we are focused on building the appropriate platform for new and existing spl-token projects to create new incentives for their community through what we like to call: [Vault-Programs](/vault-program-docs/introduction).
+
+The current **problem** that we've noticed with Solana is that projects don't have the appropriate support in order to accelerate to its limits. Epicentral Labs wants to provide tools, consultation and solutions for projects that seek that support. 
+
+At some point in the future, we wish to use raised funds to provide grants into other start up projects because at the end of the day Epicentral Labs are project managers.
+
+The full capabilities of Solana is only now being realized.
 
 ## Why do we need Docs?
 

diff --git a/docs/src/vault-program-docs/vault-faqs.md b/docs/src/vault-program-docs/vault-faqs.md
@@ -1,5 +1,19 @@
-# Frequently Asked Questions
+<img src="/FAQs-Banner.png">
+
+## Frequently Asked Questions
 
 ::: details What do Vault-Programs do?
 *[Vaults](/terminology#vaults) are a way to incentivize and reward spl-token holders to essentially "stake" their tokens in return for a fixed or variable annual percentage yield (APY) set by Vault Creators.*
+:::
+
+::: details When will LABS Token be released?
+*July 26th, 2024 @ 00:00 UTC*
+:::
+
+::: details Is the Team Doxxed?
+*We don't have a "Teams" page set up at the moment but it is on our To Do list. However, you can [follow Tony, aka **TheLazySol** on **X**](https://x.com/TheLazySol).* However, for legal purposes we do not disclose information about our private investors.
+:::
+
+::: details Are you Audited?
+*Currently, we are not Audited. However, we do plan to be fully audited as soon as at least one of our projects get released out of beta version.*
 :::

diff --git a/docs/src/index.md b/docs/src/index.md
@@ -3,13 +3,16 @@ layout: home
 
 hero:
   name: "Epicentral Labs"
-  text: "Accelerate Project Incentives"
-  tagline: Building interactive dApps that innovative DeFi solutions.
+  text: "Accelerate Incentives & Participation"
+  tagline: Creating innovative DeFi solutions...
   actions:
     - theme: brand
       text: Open Docs
       link: /introduction/about-us
     - theme: alt
-      text: Follow us on X ==>
+      text: Follow us on X! ==>
       link: https://x.com/EpicentralLabs
+    - theme: alt
+      text: Join our Discord! ==>
+      link: https://discord.gg/5asAuY2sR8
 ---

diff --git a/docs/src/terminology.md b/docs/src/terminology.md
@@ -1,5 +1,6 @@
-# Terminology
+<img src="/Terminology-Banner.png">
 
+##
 All important keywords used in this documentation are listed here for ease of access. Think of it as the projects dictionary:
 
 ## Annual Percentrage Yield (APY)

diff --git a/docs/src/vault-program-docs/understanding-vaults.md b/docs/src/vault-program-docs/understanding-vaults.md
@@ -1,4 +1,6 @@
-# Understanding Vaults
+#
+
+<img src="/Vaults-Explained.png">
 
 [[toc]]
 
